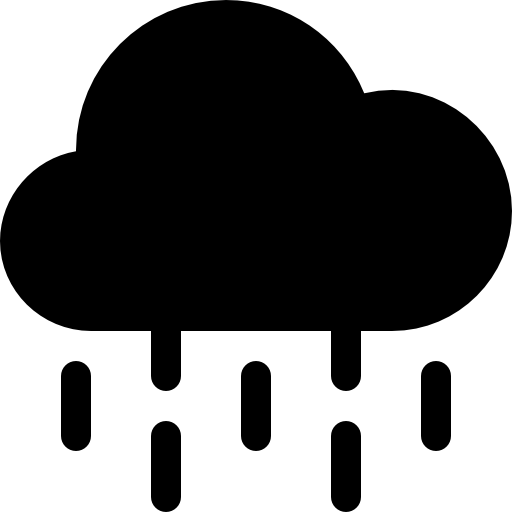
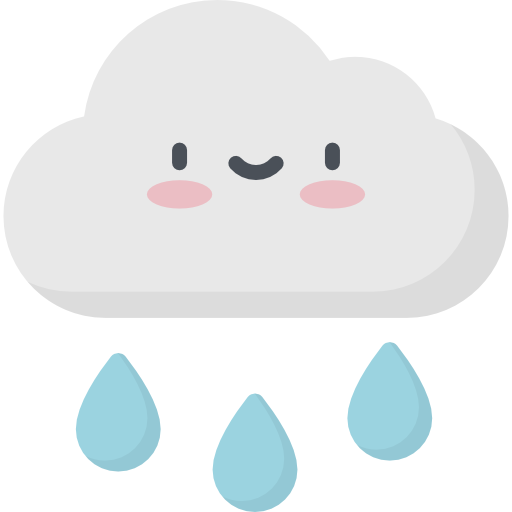
respancivre and update imas

diff --git a/css/style.css b/css/style.css
@@ -8,8 +8,8 @@ img{
 #cons{
     background-color: black;
     background-position: center;
-    width: 35em;
-    height: 50em;
+    width: 30em;
+    height: 40em;
     margin: 0 auto;
     text-align: center;
     padding-top: 0.6em;
@@ -37,4 +37,38 @@ h3{
 h4{
     font-size: 2em;
     color: rgb(255, 255, 255);
+}
+
+
+
+
+
+
+
+@media only screen and (max-width: 426px) {
+    #cons{
+        background-color: black;
+        width: 100%;
+        height: 100%;
+        text-align: center;
+        padding: 0.6em 0;
+        border-radius: 0;
+    }
+    h1{
+        font-size: 3.5em;
+    }
+    h2{
+        font-size: 2em;
+        color: rgb(218, 236, 252);
+    }
+    
+    h3{
+        font-size: 1em;
+        color: cyan;
+    }
+    
+    h4{
+        font-size: 2em;
+        color: rgb(255, 255, 255);
+    }
 }

diff --git a/index.html b/index.html
@@ -11,15 +11,15 @@
     <div id="cons">
             <!-- location -->
     <div class="location">
-        <h1 class="location-timezone">Tidszon</h1>
-        <img class="weather-icon" src="./img/unknown.png" alt="icon">
+        <h1 class="location-timezone">Stad</h1>
+        <img class="weather-icon" src="./img/celsius.png" alt="icon">
     </div>
     
     <!-- Temperature -->
     <div class="temperature">
         <div class="degree-section">
-            <h2 class="temperature-degree">Temperatur i kelvin</h2>
-            <h3 id="city">Kelvin</h3>
+            <h2 class="temperature-degree">Temperatur i stad</h2>
+            <h3 id="city">Stad</h3>
         </div>
         <h4 class="temperature-description">Beskrivning av vädret</h4>
     </div>

diff --git a/README.md b/README.md
@@ -1,1 +1,5 @@
 # WeatherAPI
+
+
+Icon Weather API:
+    https://openweathermap.org/weather-conditions#Weather-Condition-Codes-2
